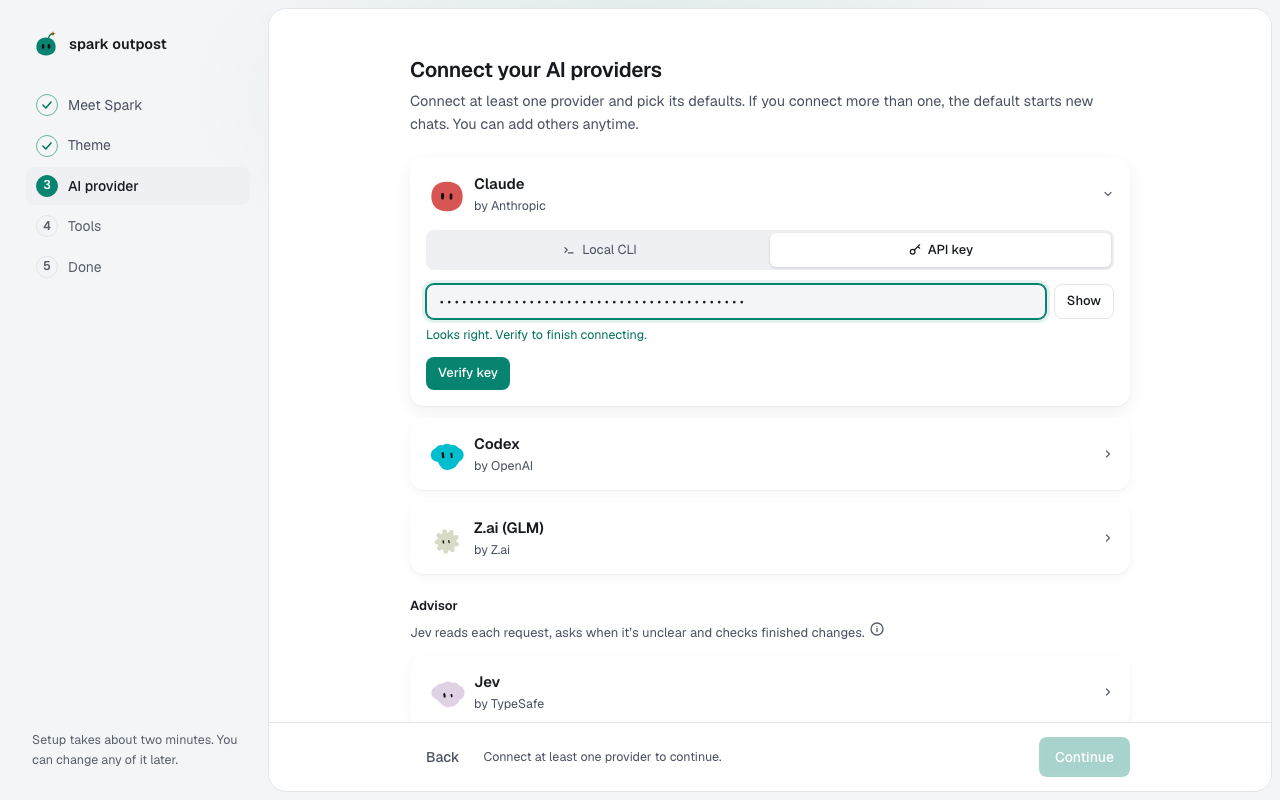
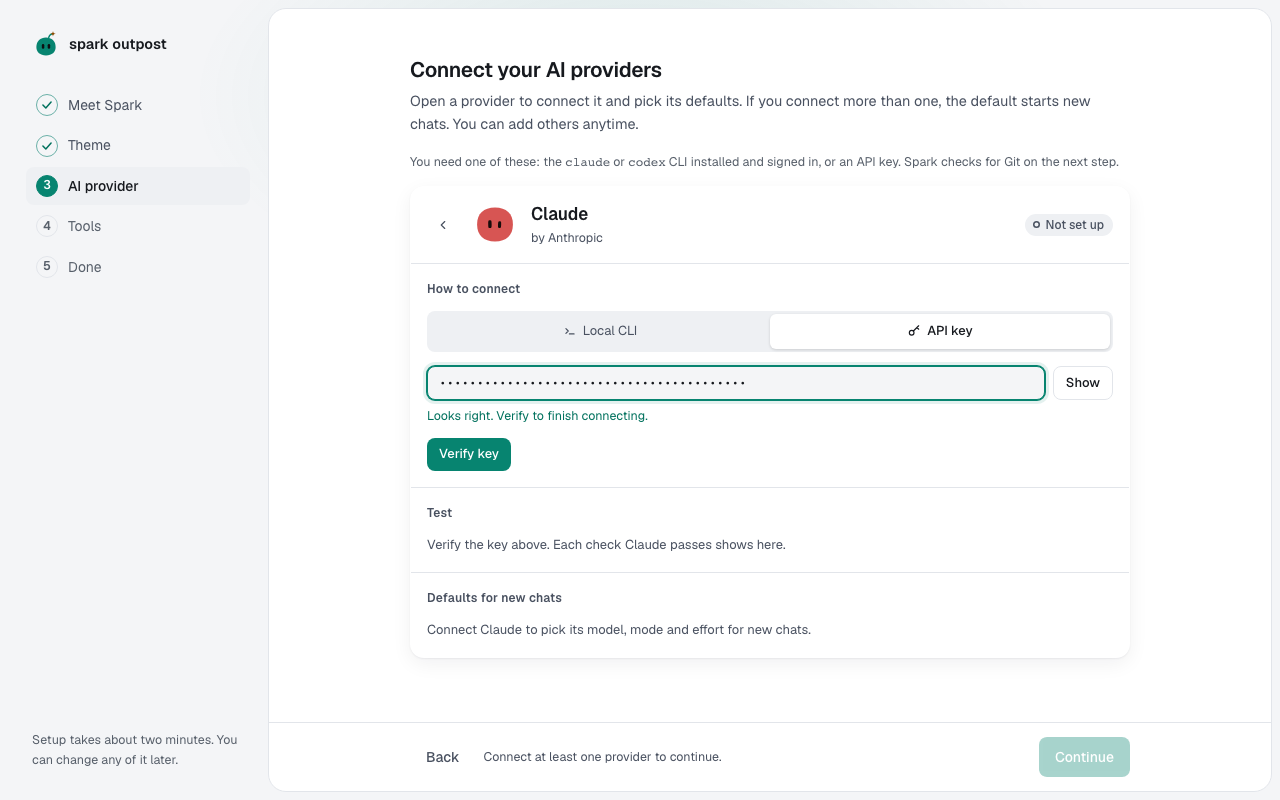
Guide and Spark tools describe provider tiles and screens
Regenerated the provider screenshots and added one of the tiles.

diff --git a/apps/server/src/spark-mcp/guide/sections.ts b/apps/server/src/spark-mcp/guide/sections.ts
@@ -28,7 +28,7 @@ Connect Claude and Codex with your existing CLI login (\`claude\` / \`codex\`), 
     keywords: ['jev', 'advisor', 'typesafe', 'system one', 'judgment', 'check changes'],
     text: `Jev (TypeSafe's "System One") is an optional decision service, not a chat or coding model — it doesn't generate text, stream, call tools or edit files. It answers typed questions (Choice, Score, Noul) with calibrated probabilities over a short state you send it.
 
-Spark uses Jev for a handful of concrete judgments per Do turn: whether a message is a question or a change, whether it's vague enough to need clarifying, whether it looks destructive, whether a Critic review is warranted, and a verifier check on the finished diff. Code always owns the policy and the act line for each question; Jev's answer only decides at high confidence, and low-confidence answers fall back to plain rules. With Spark off, Jev is never called. Answers below the confidence band never grant anything by themselves. Settings → AI providers → Check changes with Jev lets Jev verify finished diffs (never used for training).`,
+Spark uses Jev for a handful of concrete judgments per Do turn: whether a message is a question or a change, whether it's vague enough to need clarifying, whether it looks destructive, whether a Critic review is warranted, and a verifier check on the finished diff. Code always owns the policy and the act line for each question; Jev's answer only decides at high confidence, and low-confidence answers fall back to plain rules. With Spark off, Jev is never called. Answers below the confidence band never grant anything by themselves. Settings → AI providers → Jev → Check changes with Jev lets Jev verify finished diffs (never used for training).`,
   },
   {
     id: 'ask-vs-do',
@@ -273,7 +273,7 @@ The Spark switch on: Jev reads each request, routing picks models, a Critic revi
       'projects',
       'connectors',
     ],
-    text: `Settings has these sections: Spark (see settings-spark); AI providers (connect Claude, Codex, Z.ai and Jev, and Check changes with Jev); Models (cost, benchmark and when Spark uses each model); Usage (tokens and cost per provider and category, last 30 days or all time); Projects (linked folders, trust, Builders at once and Where Spark works); Connectors (GitHub, Jira, Linear); MCP servers; Appearance (themes); Reset (hold to reset, then 10 seconds to Undo; optionally Keep my API keys).
+    text: `Settings has these sections: Spark (see settings-spark); AI providers (a tile per provider: Claude, Codex, Z.ai and Jev, each opening its own screen to connect, test, pick defaults and disconnect; Check changes with Jev is on Jev's screen); Models (cost, benchmark and when Spark uses each model); Usage (tokens and cost per provider and category, last 30 days or all time); Projects (linked folders, trust, Builders at once and Where Spark works); Connectors (GitHub, Jira, Linear); MCP servers; Appearance (themes); Reset (hold to reset, then 10 seconds to Undo; optionally Keep my API keys).
 
 spark_settings returns the non-secret settings; spark_projects returns each project's Builders at once and Where Spark works.`,
   },

diff --git a/tests/browser/docs-shots-batch-1.spec.ts b/tests/browser/docs-shots-batch-1.spec.ts
@@ -89,16 +89,22 @@ test('Providers, models and Jev screenshots', async ({ page }) => {
   await seedDemo(page, repo);
   await openSettings(page, /AI providers/);
   const providers = page.getByRole('dialog', { name: 'AI providers' });
-  const claude = providers.locator('.pcard').filter({ hasText: 'Claude' }).first();
-  await claude.locator('.pc-head').click();
-  await expect(claude.getByRole('region', { name: 'Defaults for new chats' })).toBeVisible();
-  await shoot(page, IMAGES, 'providers-defaults', claude);
-  await claude.locator('.pc-head').click();
+  const tiles = providers.locator('.ptiles-view');
+  await expect(tiles.locator('.ptile[data-prov="claude"]')).toContainText('Connected');
+  await shoot(page, IMAGES, 'providers-tiles', tiles);
 
-  const advisor = providers.locator('section.advisors');
-  await advisor.locator('.pcard .pc-head').first().click();
+  await providers.locator('.ptile[data-prov="claude"]').click();
+  const claude = providers.locator('.pconf[data-prov="claude"]');
+  const defaults = claude.getByRole('region', { name: 'Defaults for new chats' });
+  await expect(defaults).toBeVisible();
+  await shoot(page, IMAGES, 'providers-defaults', defaults);
+  await claude.getByRole('button', { name: 'Back to AI providers' }).click();
+
+  await providers.locator('.ptile[data-prov="jev"]').click();
+  const advisor = providers.locator('.pconf[data-prov="jev"]').getByRole('region', {
+    name: 'Settings',
+  });
   await expect(advisor).toContainText('Sends');
-  await advisor.scrollIntoViewIfNeeded();
   await shoot(page, IMAGES, 'jev-advisor', advisor);
 
   await page.getByRole('tab', { name: /^Models/ }).click();

diff --git a/tests/browser/docs-shots.spec.ts b/tests/browser/docs-shots.spec.ts
@@ -32,8 +32,7 @@ test.afterEach(() => repo.remove());
 
 const onboarding = (page: Page) => page.locator('.onb');
 const continueButton = (page: Page) => onboarding(page).getByRole('button', { name: 'Continue' });
-const claudeCard = (page: Page) =>
-  onboarding(page).locator('.pcard').filter({ hasText: 'Claude' }).first();
+const claudeCard = (page: Page) => onboarding(page).locator('.pconf[data-prov="claude"]');
 
 test('Getting started screenshots', async ({ page }) => {
   test.setTimeout(120_000);
@@ -51,7 +50,7 @@ test('Getting started screenshots', async ({ page }) => {
   await shoot(page, IMAGES, 'getting-started-theme');
 
   await continueButton(page).click();
-  await claudeCard(page).locator('.pc-head').click();
+  await onboarding(page).locator('.ptile[data-prov="claude"]').click();
   await claudeCard(page).getByRole('tab', { name: 'API key' }).click();
   await claudeCard(page).getByLabel('Claude API key').fill(CLAUDE_KEY);
   await expect(claudeCard(page)).toContainText('Looks right. Verify to finish connecting.');
@@ -65,7 +64,7 @@ test('Getting started screenshots', async ({ page }) => {
   await expect(defaults.getByRole('button', { name: 'Claude model' })).toHaveText(
     'Claude Opus 5.5',
   );
-  await shoot(page, IMAGES, 'getting-started-defaults', claudeCard(page));
+  await shoot(page, IMAGES, 'getting-started-defaults', defaults);
 
   await continueButton(page).click();
   await expect(

diff --git a/apps/web/src/providers/provider-configure.css b/apps/web/src/providers/provider-configure.css
@@ -129,3 +129,6 @@
     margin-top: 8px;
   }
 }
+.pconf-sec .conn-details + .pconf-muted {
+  margin-top: 12px;
+}

diff --git a/docs/guide/README.md b/docs/guide/README.md
@@ -40,7 +40,7 @@ Get started is a sequence: an overview page that lists the steps, then one short
 | --------------------------------------------- | ------- | ----------------------------------------------------------------------------------------- | ----------------------------------------------------- |
 | `getting-started` Getting started             | Written | Set up Spark Outpost in about five minutes. Each step has its own short page.             | none                                                  |
 | `meet-spark` Meet Spark and pick a theme      | Written | Tell Spark your name, choose how it talks to you, and pick a theme.                       | `getting-started-meet-spark`, `getting-started-theme` |
-| `connect-a-provider` Connect an AI provider   | Written | Connect Claude, Codex or Z.ai with the local CLI or an API key, then send a test message. | `getting-started-provider`                            |
+| `connect-a-provider` Connect an AI provider   | Written | Connect Claude, Codex or Z.ai with the local CLI or an API key, then send a test message. | `providers-tiles`, `getting-started-provider`         |
 | `chat-defaults` Choose defaults for new chats | Written | Pick the model, mode and effort new chats start with, and see where to change them later. | `getting-started-defaults`                            |
 | `meet-jev` Jev, the advisor                   | Written | What Jev is, why it's optional, and how to connect it during setup.                       | none                                                  |
 | `bring-in-your-tools` Bring in your tools     | Written | Check that Git is found, and optionally connect GitHub, Jira and Linear.                  | `getting-started-tools`                               |
@@ -118,7 +118,7 @@ Settings rows and info tips link here with a book icon (`apps/web/src/ui/DocLink
 | Settings → Spark → How much Spark does alone                      | `chats-and-modes#spark-autonomy`                             |
 | Settings → Spark → If you don't answer a question                 | `approvals#if-you-dont-answer`                               |
 | Settings → AI providers → Advisor info tip                        | `jev`                                                        |
-| Settings → AI providers → Check changes with Jev                  | `jev#check-changes-with-jev`                                 |
+| Settings → AI providers → Jev → Check changes with Jev            | `jev#check-changes-with-jev`                                 |
 | Settings → Projects → Where Spark works                           | `spark-crew#where-spark-works`                               |
 | Settings → Projects → Builders at once                            | `pieces#choose-how-many-builders-run-at-once`                |
 | Settings → Spark → Warn when context is, Compact automatically at | `compaction#change-when-spark-compacts`                      |

diff --git a/docs/guide/troubleshooting.md b/docs/guide/troubleshooting.md
@@ -17,32 +17,32 @@ You see **Taking a quick nap** ("The Spark Outpost server isn't answering"), or 
 
 ## A provider won't connect
 
-Open **Settings → AI providers** and open the provider's card. The message under it says what's wrong:
+Open **Settings → AI providers**. The provider's tile shows **CLI not installed**, **Needs sign-in** or **Error**. Select it; the message under **Test** says what's wrong:
 
 - **"The `claude` CLI isn't installed or isn't on your PATH"**: install it with `npm i -g @anthropic-ai/claude-code` (for Codex, `npm i -g @openai/codex`), then select **Try again** on the **Local CLI** tab.
 - **"You're not logged in to the `claude` CLI"**: run `claude auth login` (for Codex, `codex login`) in a terminal, then select **Try again**.
 - **"Couldn't reach …"**: check your internet connection and try again.
 
-In a chat, the same problem shows as "… isn't signed in. Open Settings, reconnect …, and try again." Reconnect the provider on its card, then send your message again.
+In a chat, the same problem shows as "… isn't signed in. Open Settings, reconnect …, and try again." Reconnect the provider on its screen, then send your message again.
 
 ## A key was rejected
 
 - **"rejected this key (401 Unauthorized)"**: the key is wrong or revoked. Copy it again from the provider, paste it into the key field and select **Verify key**.
 - **"denied access (403 Forbidden)"**: the key works but lacks permission. Check its permissions with the provider.
 - **"can't use any models"**: check which project the key belongs to.
-- **"This looks like an OpenAI key. Paste it under Codex instead."**: you pasted it on the wrong card.
+- **"This looks like an OpenAI key. Paste it under Codex instead."**: you pasted it on the wrong provider's screen.
 
 ## No models in the model picker
 
 The picker asks the agent for its models when you open it. If it says **No models reported yet**:
 
-1. Check that the provider's card says **Connected**. If it isn't, connect it first.
+1. Check that the provider's tile says **Connected**. If it isn't, connect it first.
 2. Close the picker and open it again. The first answer can take a few seconds.
-3. If it says the agent "took too long to report its models", select **Send test message** on the card to check the provider answers.
+3. If it says the agent "took too long to report its models", select **Send test message** on the provider's screen to check the provider answers.
 
 ## The test message fails
 
-The card says **The test message failed:** and why:
+The provider's screen says **The test message failed:** under **Test**, and why:
 
 - **"rejected the stored key (401)"** or **"the stored key is missing from the keychain"**: paste the key again and select **Verify key**.
 - **"is rate limiting this key (429)"**: wait a minute, then try again.

diff --git a/docs/guide/connect-a-provider.md b/docs/guide/connect-a-provider.md
@@ -24,21 +24,29 @@ Pick the way that fits how you already work:
 | **Local CLI** | You already use Claude Code or Codex in a terminal. | In the CLI. Spark never reads or stores it.      |
 | **API key**   | You have a key from the provider, or you use Z.ai.  | In your system keychain, never in Spark's files. |
 
-![The Connect your AI providers step with the Claude card open](images/getting-started-provider-light.png)
+## Open a provider
+
+Each provider has a tile. The tile shows its status, such as **Not set up**, **CLI not installed**, **Needs sign-in**, **Connected · Local CLI** or **Error**, its default model once connected, and what to do next.
+
+![The AI providers tiles with Claude and Jev connected](images/providers-tiles-light.png)
+
+Select a tile to open that provider's screen. It has four parts: **How to connect**, **Test**, **Defaults for new chats** and, once connected, **Danger zone**. Select **Back** (the arrow next to the name), **Done** or press **Esc** to return to the tiles.
+
+![The Claude screen on the Connect your AI providers step, with the API key tab open](images/getting-started-provider-light.png)
 
 ## Connect with the local CLI
 
-1. Select the provider's card to open it.
-2. Select the **Local CLI** tab.
-3. Select **Detect and verify**. Spark looks for the CLI on your computer and checks that you are signed in.
+1. Select the provider's tile to open it.
+2. Under **How to connect**, select the **Local CLI** tab.
+3. Select **Detect and verify**. Spark looks for the CLI on your computer and checks that you are signed in. Each check appears under **Test**.
 4. If the CLI isn't installed or isn't signed in, Spark opens a terminal with the command to fix it. Run the command, and Spark checks again on its own.
 
 Spark Outpost runs the CLI but never reads or stores your credentials.
 
 ## Connect with an API key
 
-1. Select the provider's card to open it.
-2. Select the **API key** tab. Z.ai shows the key field straight away.
+1. Select the provider's tile to open it.
+2. Under **How to connect**, select the **API key** tab. Z.ai shows the key field straight away.
 3. Paste the key into the key field. The hint under the field tells you if the key looks wrong, for example "Claude keys start with sk-ant-".
 4. Select **Verify key**, or press **Enter**.
 
@@ -48,8 +56,8 @@ Spark checks the key with the provider and stores it in your system keychain. It
 
 ## Send a test message
 
-1. Wait until the card says **Connected**.
-2. Select **Send test message**.
+1. Wait until the screen says **Connected**.
+2. Under **Test**, select **Send test message**.
 
 Spark asks the provider to reply with one word. It shows how long the answer took and which model sent it.
 

diff --git a/docs/guide/jev.md b/docs/guide/jev.md
@@ -31,25 +31,25 @@ Jev only counts when it's sure enough. Below its confidence line, the rules deci
 
 1. Get an API key in the **TypeSafe console** under API keys.
 2. Open **Settings → AI providers** and find **Advisor**.
-3. Open the **Jev** card, paste the key and verify it.
+3. Select the **Jev** tile, paste the key and verify it.
 
-The key is stored in your system keychain. To replace it or remove Jev, open the card's **…** menu and select **Change key** or **Disconnect**.
-
-![The Advisor section with Jev connected](images/jev-advisor-light.png)
+The key is stored in your system keychain. To replace it, select **Use a new key** on Jev's screen. To remove Jev, hold **Hold to remove the Jev key** under **Danger zone**; you get 10 seconds to undo.
 
 ## Check changes with Jev
 
-**Check changes with Jev** sits under **Advisor** in **Settings → AI providers**. It's on by default and needs Jev connected. With it on, Jev also gets code diffs:
+**Check changes with Jev** sits on Jev's screen, under **Settings**: open **Settings → AI providers** and select the **Jev** tile. It's on by default and needs Jev connected. With it on, Jev also gets code diffs:
 
 - **Proposed edits**: watched only, never blocked or allowed.
 - **Final diff**: verified. If Jev finds the change incomplete, a stronger model redoes it once. If Jev can't say what's missing, your project's checks pass and the Critic has no concerns, you get the **Jev could not verify the change** card instead of a second Builder.
 - **Review findings**: Jev uses the diff to tell which ones need a fix.
 
+![Settings on Jev's screen, with Check changes with Jev](images/jev-advisor-light.png)
+
 Turn it off to keep diffs on your computer. Jev then sees only your requests.
 
 ## What Jev reads
 
-The **Sends** line on the connected card lists it. In short: your request, the previous request and a short task summary, and the text of files you attach. With **Check changes with Jev** on, also the diffs.
+The **Sends** line on Jev's screen lists it. In short: your request, the previous request and a short task summary, and the text of files you attach. With **Check changes with Jev** on, also the diffs.
 
 Jev never gets keys, tool output or your full chat history. TypeSafe doesn't train on it. The Map sends some file contents to label areas, but never secret files or anything in `.sparkignore`. See [Privacy and secrets](privacy-and-secrets.md).
 

diff --git a/docs/guide/providers-and-models.md b/docs/guide/providers-and-models.md
@@ -21,10 +21,10 @@ New chats start with your default provider's model, mode and effort. For the mod
 
 ## Change the defaults for new chats
 
-1. Open **Settings → AI providers** and select a connected provider's card.
+1. Open **Settings → AI providers** and select a connected provider's tile.
 2. Under **Defaults for new chats**, change **Model**, **Mode** or **Effort**.
 
-![A connected Claude card with Defaults for new chats](images/providers-defaults-light.png)
+![Defaults for new chats on the Claude screen](images/providers-defaults-light.png)
 
 **Effort** has an extra choice, **Per chat**: each chat keeps its own effort. Pick a fixed level instead and every chat, and every Builder, uses it.
 
@@ -34,18 +34,21 @@ Changes apply to new chats. To change one chat, use the model picker. See [Pick 
 
 With more than one provider connected:
 
-1. Open the **…** menu on the provider's card.
-2. Select **Make default**. The card gets a **Default** tag, and new chats start with that provider.
+1. Open the provider's screen.
+2. Under **Defaults for new chats**, select **Make default**. Its tile gets a **Default** tag, and new chats start with that provider.
 
 ## Sign in again or disconnect
 
-Open the **…** menu on a connected card:
+Open a connected provider's screen. Under **How to connect**:
 
 - **Sign in again** (local CLI only) opens a terminal to sign in. Your settings stay as they are.
-- **Change how it connects** switches between **Local CLI** and **API key**, or replaces the key.
-- **Disconnect** removes the connection.
+- **Use an API key instead**, **Use the local CLI or a new key** or **Use a new key** switches between **Local CLI** and **API key**, or replaces the key.
 
-To check a connection, select **Send test message**. The card's **Last test** row shows how long the answer took and which model sent it.
+Under **Danger zone**, hold **Hold to disconnect** (or **Hold to remove the key** for an API key) until the ring fills. You get 10 seconds to select **Undo** or press **Esc** before Spark disconnects it.
+
+To check a connection, select **Send test message** under **Test**. The **Last test** row shows how long the answer took and which model sent it.
+
+> **Tip:** Each provider's screen has its own link, for example `#/settings/providers/codex`. Selecting a provider on Home opens its screen.
 
 ## Read the model cards
 

diff --git a/docs/guide/chat-defaults.md b/docs/guide/chat-defaults.md
@@ -9,9 +9,9 @@ You'll choose how new chats start: which model, how much the agent may do alone,
 
 ## Set the defaults
 
-Each connected provider card has a **Defaults for new chats** area. New chats start with these settings, and each chat can change them later.
+Each connected provider's screen has a **Defaults for new chats** area. New chats start with these settings, and each chat can change them later.
 
-![Defaults for new chats on a connected Claude card](images/getting-started-defaults-light.png)
+![Defaults for new chats on the Claude screen](images/getting-started-defaults-light.png)
 
 1. **Model**: pick the model new chats use. The list comes from the provider. For Claude, the default is the one your Claude CLI uses (Opus 5.5 at the time of writing).
 2. **Mode**: pick how much the agent may do without asking. The provider's own default is marked **(default)**; for Claude this is **Auto**. See [Pick the agent's mode](chats-and-modes.md#pick-the-agents-mode).
@@ -19,11 +19,11 @@ Each connected provider card has a **Defaults for new chats** area. New chats st
 
 ## Choose the default provider
 
-If you connect more than one provider, open the **…** menu on a card and select **Make default**. That provider starts new chats.
+If you connect more than one provider, open a provider's screen and select **Make default** under **Defaults for new chats**. That provider starts new chats.
 
 ## Change them later
 
-- For every new chat: open **Settings → AI providers** and use the same card.
+- For every new chat: open **Settings → AI providers**, select the provider's tile and use the same area.
 - For one chat: select the model button in the message box. See [Pick the model and effort](chats-and-modes.md#pick-the-model-and-effort).
 
 > **Tip:** Not sure what to pick? Keep the defaults. You can change them in any chat without touching the rest.

diff --git a/docs/guide/settings.md b/docs/guide/settings.md
@@ -25,7 +25,7 @@ Your named teammates: each one's face, role and state, with **Edit** and **New S
 
 ## AI providers
 
-Connect, test and disconnect Claude, Codex and Z.ai, pick the default provider and each one's **Defaults for new chats**. Jev is under **Advisor**, with **Check changes with Jev**. See [Connect an AI provider](connect-a-provider.md) and [Jev, Spark's advisor](jev.md).
+A tile for Claude, Codex and Z.ai, and Jev under **Advisor**. Select a tile to open that provider's screen: connect it, test it, pick the default provider and its **Defaults for new chats**, or disconnect it. **Check changes with Jev** is on Jev's screen. See [Connect an AI provider](connect-a-provider.md) and [Jev, Spark's advisor](jev.md).
 
 ## Models
 

diff --git a/docs/guide/meet-jev.md b/docs/guide/meet-jev.md
@@ -14,10 +14,10 @@ Jev helps Spark decide how to handle each request and checks finished changes. I
 ## Connect Jev
 
 1. On the **AI provider** step, find **Advisor**.
-2. Connect **Jev** with a TypeSafe API key.
+2. Select the **Jev** tile and connect it with a TypeSafe API key.
 3. When at least one provider is connected, select **Continue**.
 
-To connect it later, open **Settings → AI providers** and look under **Advisor**.
+To connect it later, open **Settings → AI providers** and select the **Jev** tile under **Advisor**.
 
 To learn what Jev decides, what it reads and what it costs, see [Jev, Spark's advisor](jev.md).
 
